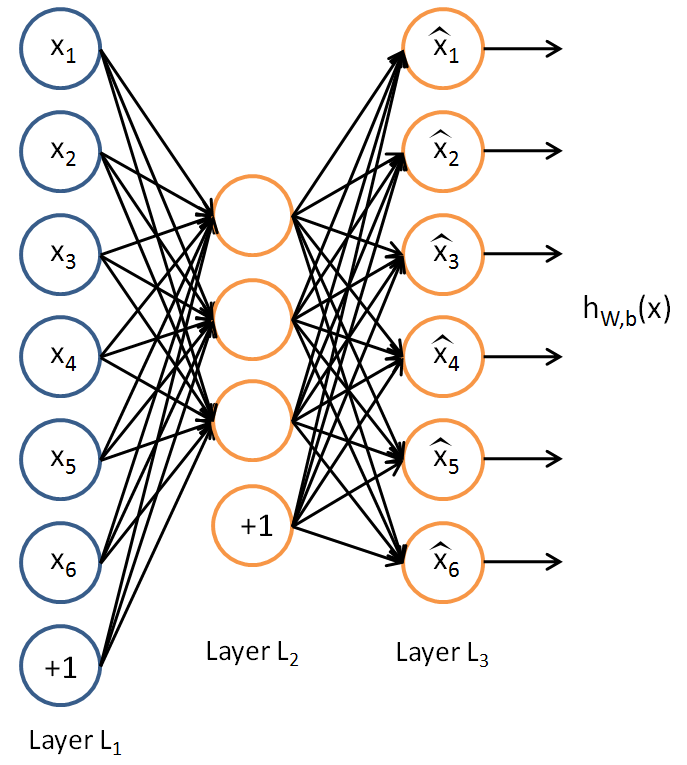
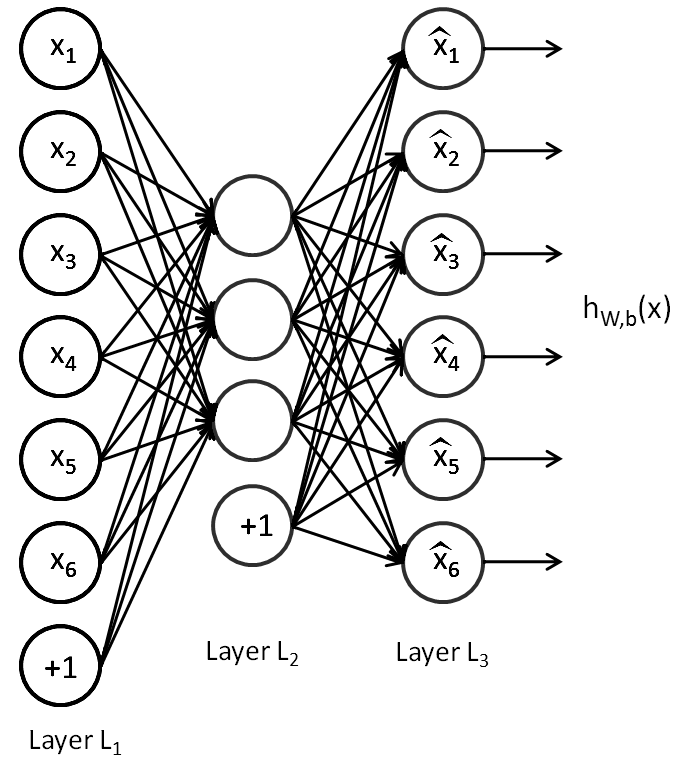
feat(pandoc): use bw images

diff --git a/pandoc/src/documents/03_Modszer.md b/pandoc/src/documents/03_Modszer.md
@@ -132,7 +132,7 @@ keresztül csökkentettem tovább a dimenzióját a látens tér dimenziójáig.
 
 \begin{figure}[H]
 \centering
-\includegraphics{src/images/data_dimension_change.png}
+\includegraphics{src/images/data_dimension_change_bw.png}
 \caption{A bemeneti adat méretének transzformálása konvolúciós és poolig rétegek segítségével egy leegyszerűsített példa hálózaton.}
 \end{figure}
 

diff --git a/pandoc/src/documents/02_Elmeleti_hatterismeretek.md b/pandoc/src/documents/02_Elmeleti_hatterismeretek.md
@@ -175,7 +175,7 @@ tömbökként kezeljük. [@tensor_definition]
 
 \begin{figure}[H]
 \centering
-\includegraphics{src/images/tensor.png}
+\includegraphics{src/images/tensorbw.png}
 \caption{Példa egy nullad-, első-, másod- és harmadrendű tenzorra.}
 \end{figure}
 
